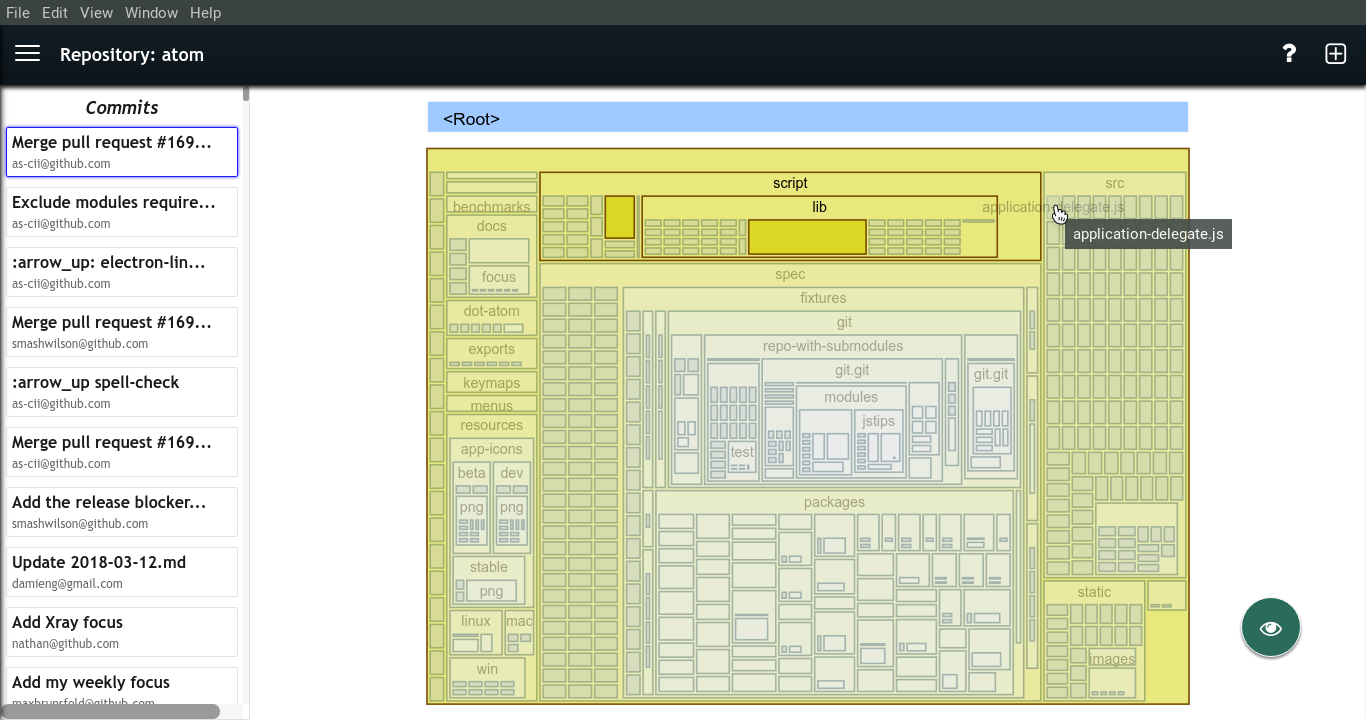
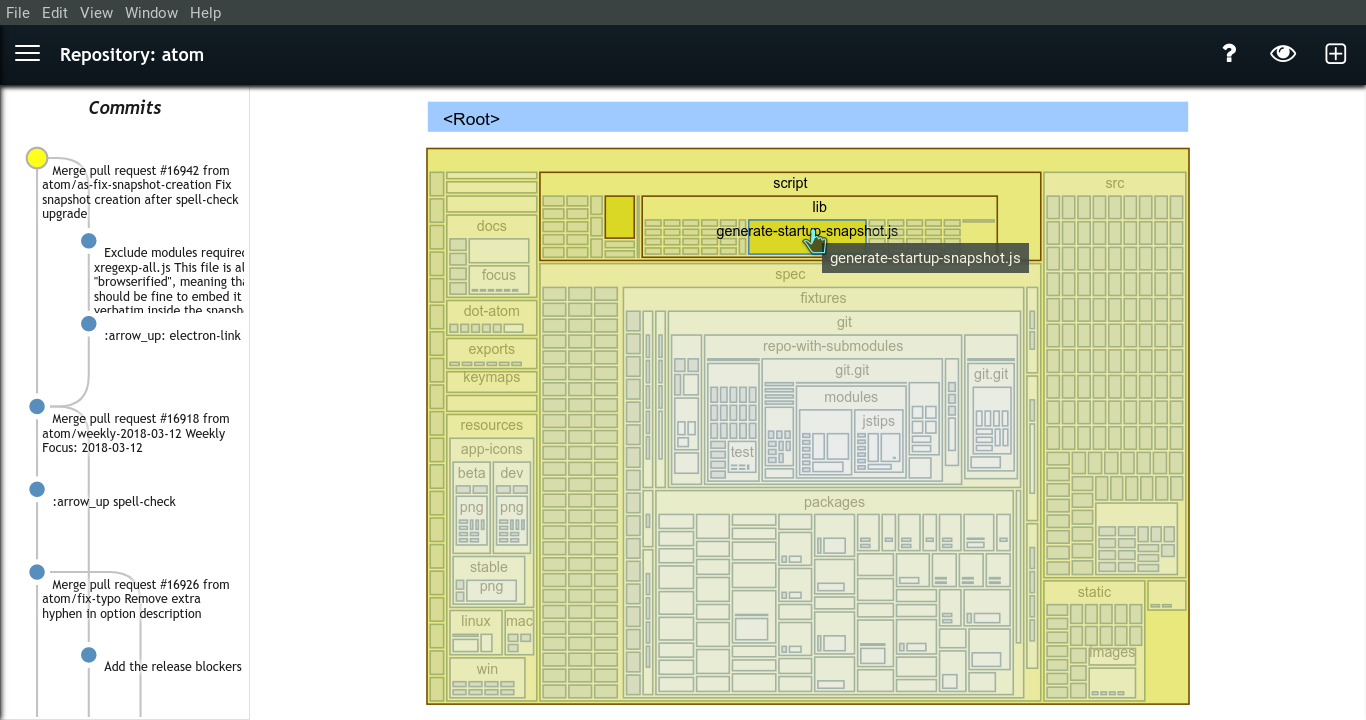
Removing force simulation from branch layout and updating README.md

diff --git a/script/Branch.js b/script/Branch.js
@@ -74,11 +74,14 @@ Branch.prototype.parseCommits = function (commitData) {
         links: []
     };
     commitData.forEach(commit => {
+        commit.x = 30 + commit.pos[1] * this.gapX;
+        commit.y = 30 + commit.pos[0] * this.gapY;
         commit.parents.forEach(parId => {
+            let par = commitData.find(c => c.id === parId);
             // create links
             newData.links.push({
-                source: parId,
-                target: commit.id
+                source: par,
+                target: commit
             });
         });
         // create node
@@ -133,37 +136,27 @@ Branch.prototype.select = function (commitId) {
 
 Branch.prototype.build = function (commitData) {
     this.data = this.parseCommits(commitData);
-    this.simulation = d3.forceSimulation()
-        .force('link', d3.forceLink().id(d => d.id).strength(0.001))
-        .force('x', d3.forceX(d => 30 + d.pos[1] * this.gapX).strength(1))
-        .force('y', d3.forceY(d => 30 + d.pos[0] * this.gapY).strength(1));
+    //this.simulation = d3.forceSimulation()
+    //    .force('link', d3.forceLink().id(d => d.id).strength(0.001))
+    //    .force('x', d3.forceX(d => 30 + d.pos[1] * this.gapX).strength(1))
+    //    .force('y', d3.forceY(d => 30 + d.pos[0] * this.gapY).strength(1));
     this.maxScrollY = 30 + ( commitData.length - 1 ) * this.gapY;
     this.update();
 };
 
 Branch.prototype.update = function () {
-    this.link = this.svg.selectAll('.link')
-        .data(this.data.links)
-        .enter().append('g')
-            .classed('link', true)
-        .append('path')
-            .attr('d', d => {
-                positionLink(d);
-            });
-    this.simulation.on('end', () => {
-        this.link.attr('d', positionLink.bind(this));
-    });
     
-    this.node = this.svg.selectAll('.node')
+    this.node = this.nodeLayer.selectAll('.node')
         .data(this.data.nodes, d => d.id)
         .enter().append('g')
             .attr('id', d => d.id)
             .classed('node', true)
-            .on('click', this.click.bind(this))
-            .call(d3.drag()
-                .on('start', this.dragstarted.bind(this))
-                .on('drag', this.dragged.bind(this))
-                .on('end', this.dragended.bind(this)));
+            .attr('transform', d => 'translate(' + d.x + ',' + d.y + ')')
+            .on('click', this.click.bind(this));
+            //.call(d3.drag()
+            //    .on('start', this.dragstarted.bind(this))
+            //    .on('drag', this.dragged.bind(this))
+            //    .on('end', this.dragended.bind(this)));
 
     this.node.append('circle')
         .attr('r', 10);
@@ -173,20 +166,25 @@ Branch.prototype.update = function () {
 
     this.node.append('foreignObject')
         .attr('width', (this.width - 30) + 'px')
-        //.attr('dx', 20)
-        //.attr('dy', 5)
-        .style('border', '1px solid red')
+        .attr('height', (this.gapY - 10) + 'px')
       .append('xhtml:div')
       .append('div')
         .classed('commitText', true)
       .append('p')
         .html(d => d.message);
 
-    this.simulation.nodes(this.data.nodes)
-        .on('tick', this.ticked.bind(this));
+    this.link = this.linkLayer.selectAll('.link')
+        .data(this.data.links)
+        .enter().append('g')
+            .classed('link', true)
+        .append('path')
+            .attr('d', d => positionLink(d));
 
-    this.simulation.force('link')
-        .links(this.data.links);
+    //this.simulation.nodes(this.data.nodes)
+    //    .on('tick', this.ticked.bind(this));
+    //
+    //this.simulation.force('link')
+    //    .links(this.data.links);
 };
 
 module.exports = Branch;

diff --git a/_sass/dashboard.scss b/_sass/dashboard.scss
@@ -271,6 +271,9 @@ body {
             stroke-width: 2px;
             fill: yellow;
         }
+        foreignObject {
+            overflow: hidden;
+        }
         .commitText {
             font-size: 12px;
             overflow: hidden;

diff --git a/style/dashboard.css b/style/dashboard.css
@@ -258,6 +258,9 @@ body {
   stroke-width: 2px;
   fill: yellow;
 }
+#commitBar #branchSvg foreignObject {
+  overflow: hidden;
+}
 #commitBar #branchSvg .commitText {
   font-size: 12px;
   overflow: hidden;
